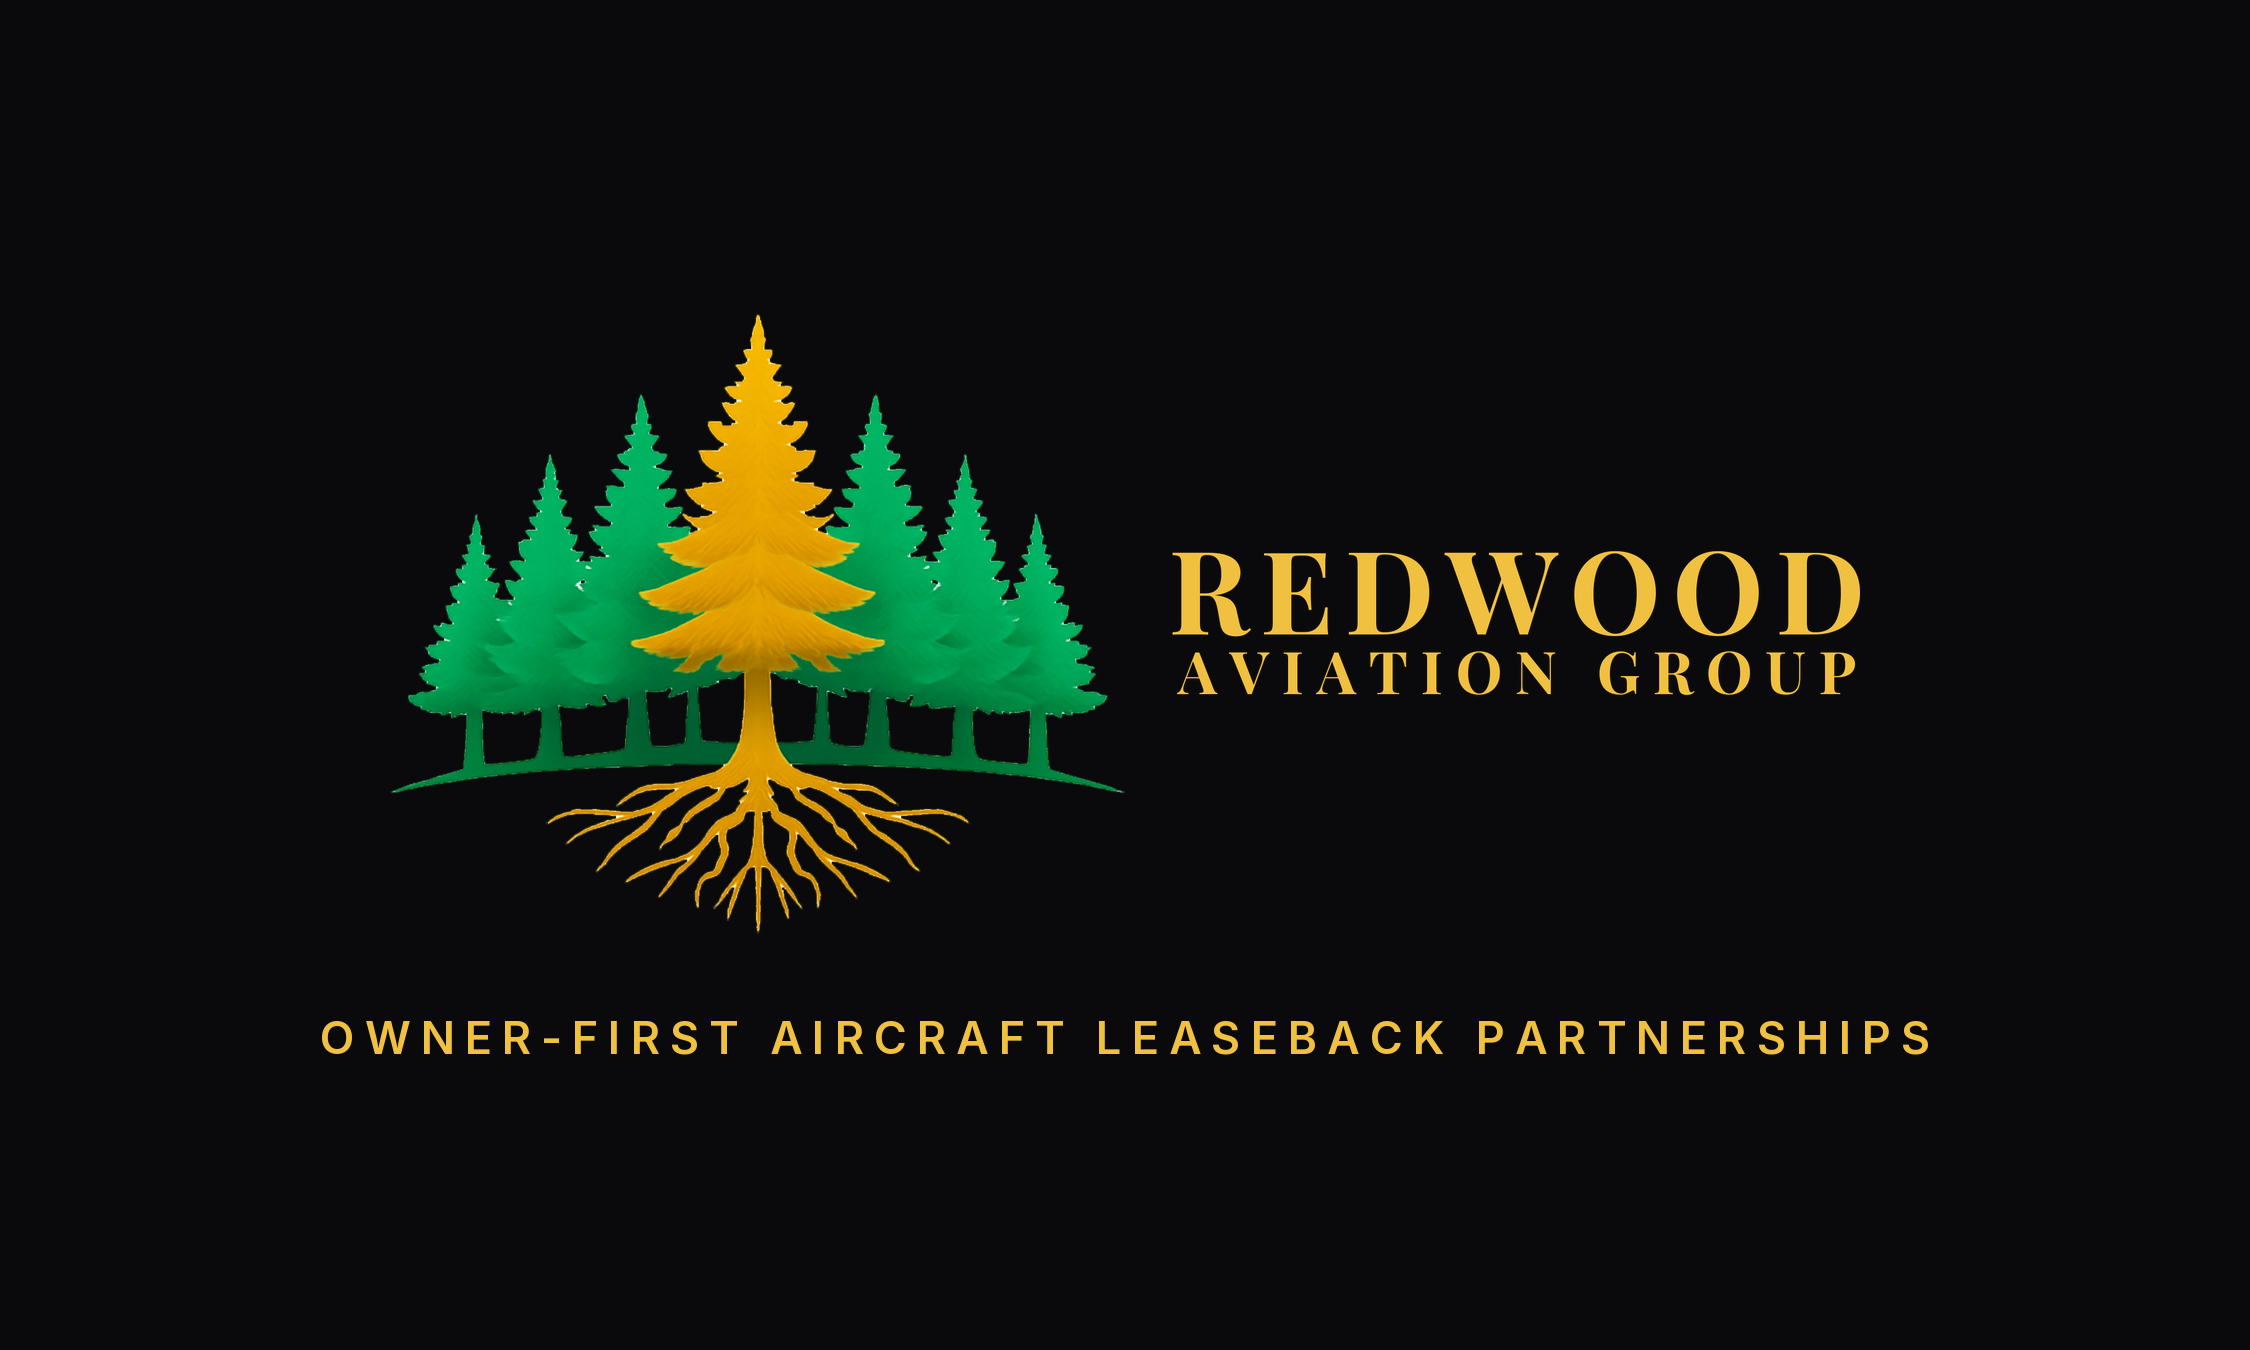
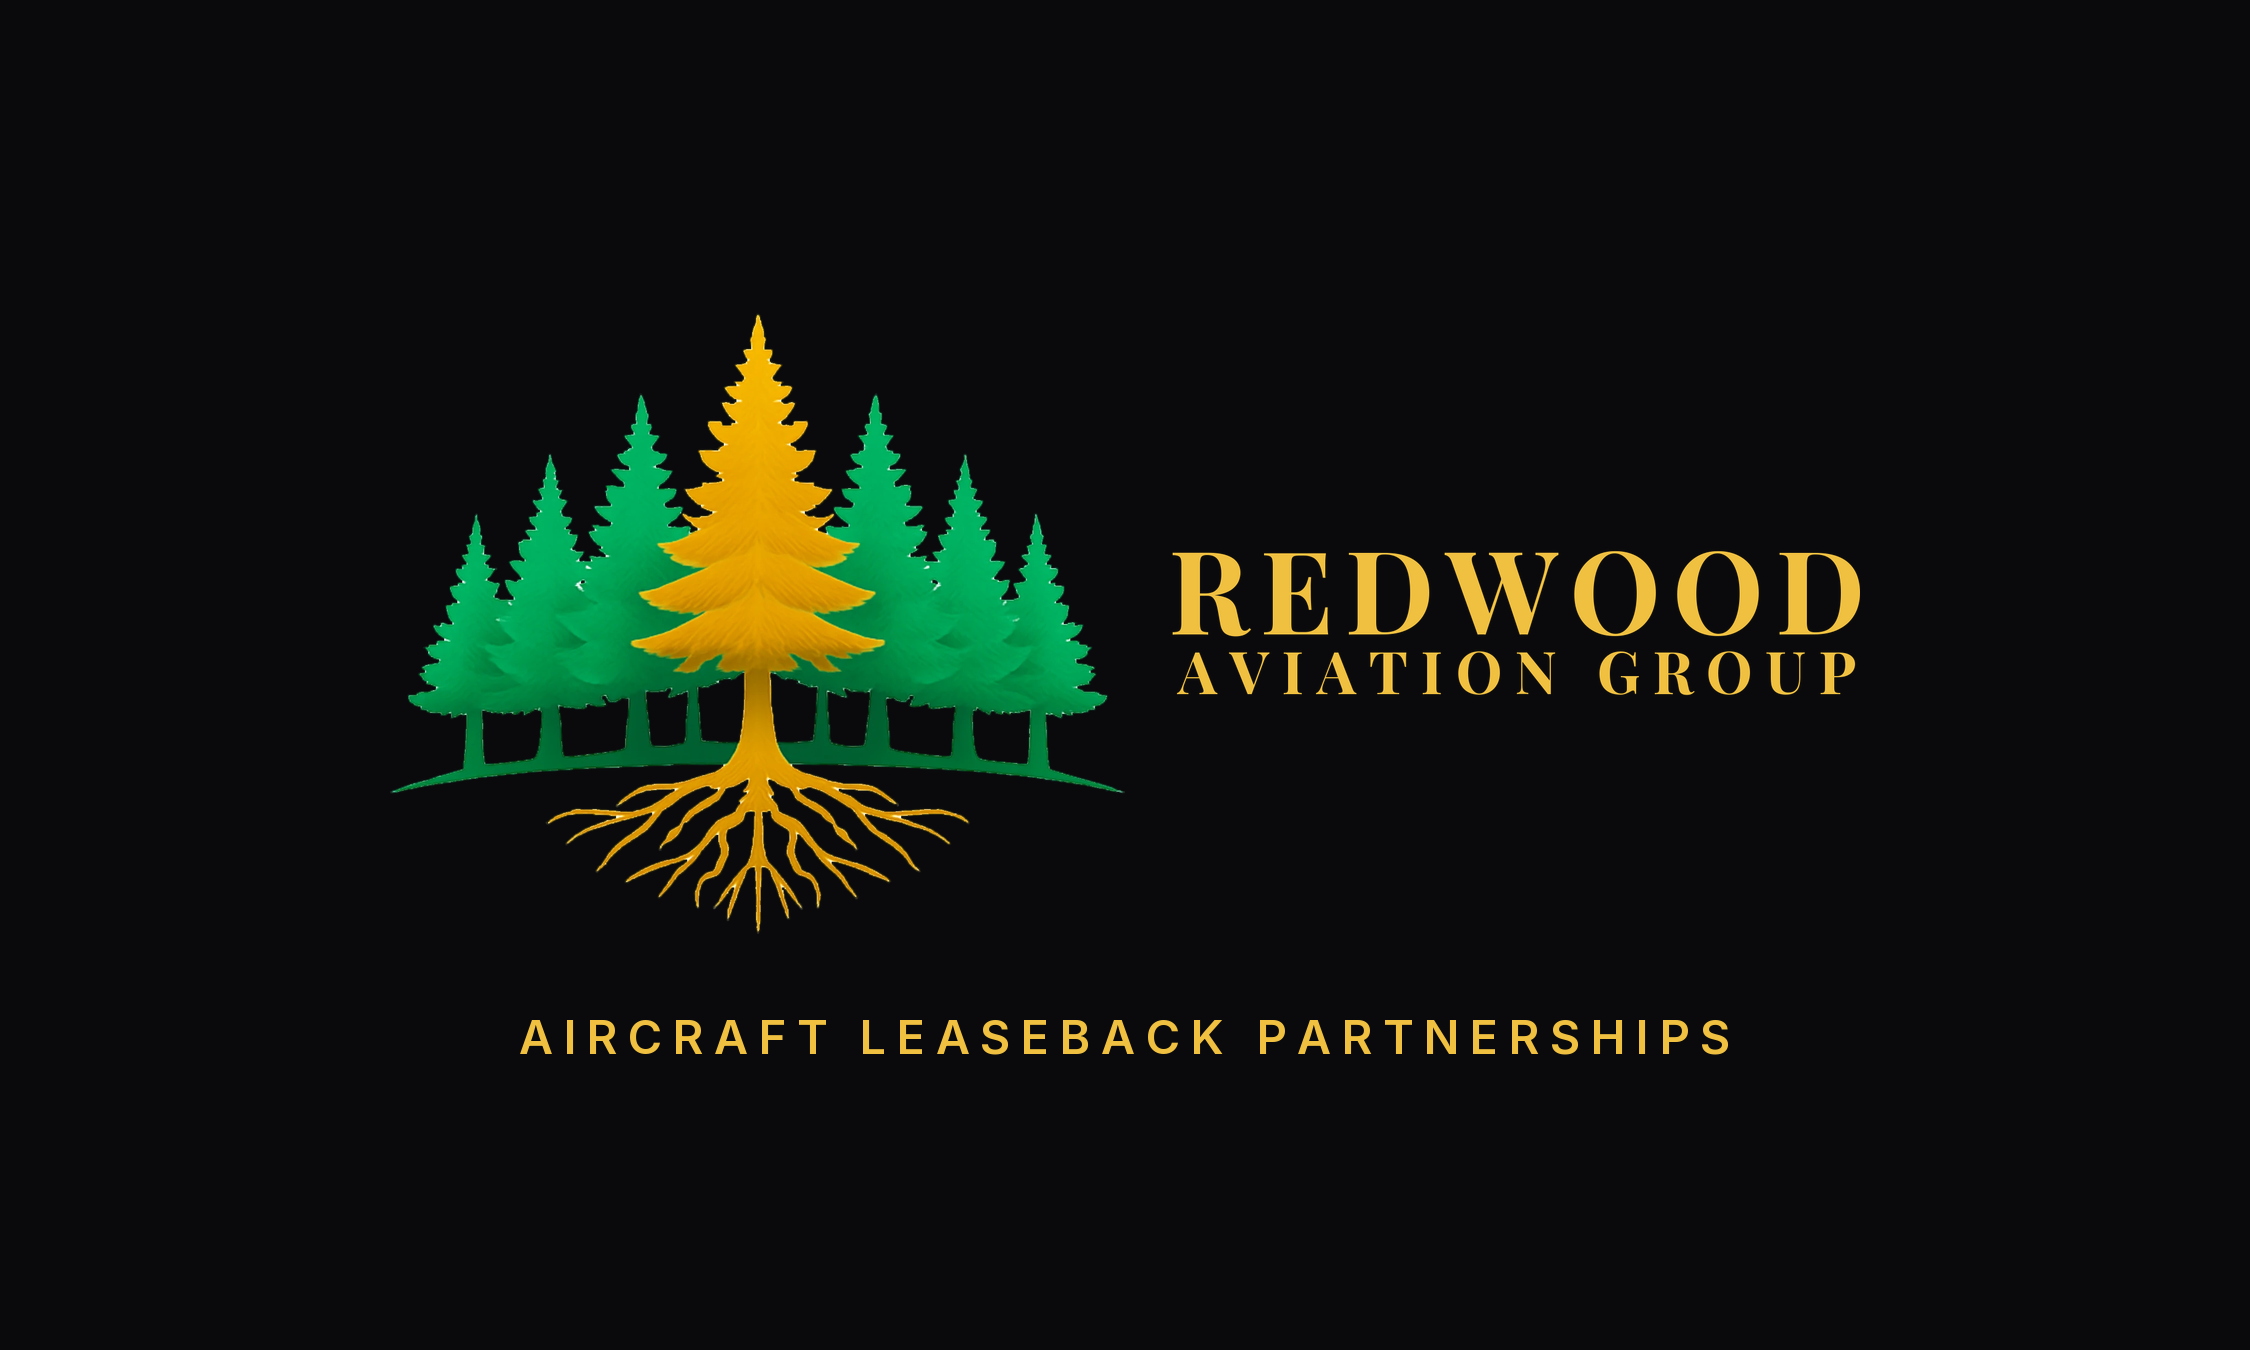
Add business cards for Robert Pierce and Mario Rosso
Two card fronts plus the shared back, 3.5x2in trim with 0.125in bleed at
600 DPI. Tagline shortened to 'Aircraft Leaseback Partnerships' and auto-fitted
to the lockup width. Documents card specs, ordering notes, and how to
regenerate with new details.

Changed region(s): [[0.1244, 0.7467, 0.8711, 0.7778]]

diff --git a/merch/cards/build-cards.py b/merch/cards/build-cards.py
@@ -51,8 +51,15 @@ def build_back():
     lk=fit_w(lockh,2.45)
     ly=int(CH*0.5 - lk.height*0.5 - 0.085*DPI)
     c.alpha_composite(lk,((CW-lk.width)//2, ly))
-    f=inter(5.4,600); tr=0.22*f.size
-    tracked(d,CW/2, ly+lk.height+int(0.20*DPI), "OWNER-FIRST AIRCRAFT LEASEBACK PARTNERSHIPS", f, tr, GOLD, "c")
+    TAG="AIRCRAFT LEASEBACK PARTNERSHIPS"
+    # size the tagline so it optically matches the lockup width above it
+    target=2.05*DPI; lo,hi=3.0,12.0
+    for _ in range(40):
+        mid=(lo+hi)/2; f=inter(mid,600)
+        if wof(TAG,f,0.22*f.size)<target: lo=mid
+        else: hi=mid
+    f=inter(lo,600)
+    tracked(d,CW/2, ly+lk.height+int(0.20*DPI), TAG, f, 0.22*f.size, GOLD, "c")
     return c
 
 # ---------------- FRONT ----------------

diff --git a/merch/MERCH-SPEC.md b/merch/MERCH-SPEC.md
@@ -124,3 +124,70 @@ needed for apparel.
 - [ ] Garment confirmed: black or charcoal
 - [ ] Method confirmed: DTF or DTG
 - [ ] Physical proof approved before the full run
+
+---
+
+# Business Cards
+
+Files in `merch/cards/`.
+
+| File | For |
+| ---- | --- |
+| `card-front-robert-pierce.png` | Robert Pierce — CEO / Co-Founder |
+| `card-front-mario-rosso.png` | Mario Rosso — CFO / Co-Founder |
+| `card-back.png` | Shared back — same for both |
+| `build-cards.py` | Regenerates all of the above |
+
+## Specs
+
+| | |
+| --- | --- |
+| Trim size | 3.5 × 2.0 in (US standard) |
+| File size | 3.75 × 2.25 in — includes 0.125 in bleed on all sides |
+| Pixels | 2250 × 1350 |
+| Resolution | 600 DPI |
+| Orientation | Landscape |
+| Color | Background `#0a0a0c`, gold `#f0c040`, body text `#e8e4dd` |
+| Type | Playfair Display Bold (names) · Inter (titles, contact) |
+
+The extra 0.125 in around every edge is **bleed** — it gets trimmed off. It
+exists so that a slight cutting misalignment shows more black rather than a
+white sliver. All text sits inside the safe area, at least 0.25 in from the
+file edge, so nothing can be clipped.
+
+## Layout
+
+**Front:** name in Playfair Display Bold (white), title in letterspaced Inter
+caps (gold), short gold rule, then phone / email / website. Pine mark on the
+right, vertically centered.
+
+**Back:** horizontal lockup centered, with `AIRCRAFT LEASEBACK PARTNERSHIPS`
+letterspaced in gold beneath it.
+
+## Ordering
+
+Upload the front and back as a two-sided job. Both files already include bleed,
+so choose "my file includes bleed" if asked.
+
+- **Moo** — best quality for small runs; strong on dark stock
+- **Jukebox** — specialty stocks; soft-touch black with gold looks genuinely premium
+- **Canva Print** — convenient, decent quality
+- **Vistaprint** — cheapest acceptable option
+
+**Get soft-touch or matte laminate.** Bare dark stock shows fingerprints
+immediately; laminate also deepens the black and makes the gold read richer.
+
+Avoid glossy UV coating — it makes dark cards look cheap and reflects badly
+under hangar and FBO lighting.
+
+## To change details later
+
+```bash
+curl -sSL -o /tmp/PlayfairDisplay.ttf \
+  "https://raw.githubusercontent.com/google/fonts/main/ofl/playfairdisplay/PlayfairDisplay%5Bwght%5D.ttf"
+curl -sSL -o /tmp/Inter.ttf \
+  "https://raw.githubusercontent.com/google/fonts/main/ofl/inter/Inter%5Bopsz,wght%5D.ttf"
+
+python3 merch/cards/build-cards.py '[{"slug":"name","name":"Full Name",
+  "title":"Title","phone":"(707) 555-0000","email":"you@redwoodaviationgroup.com"}]'
+```
